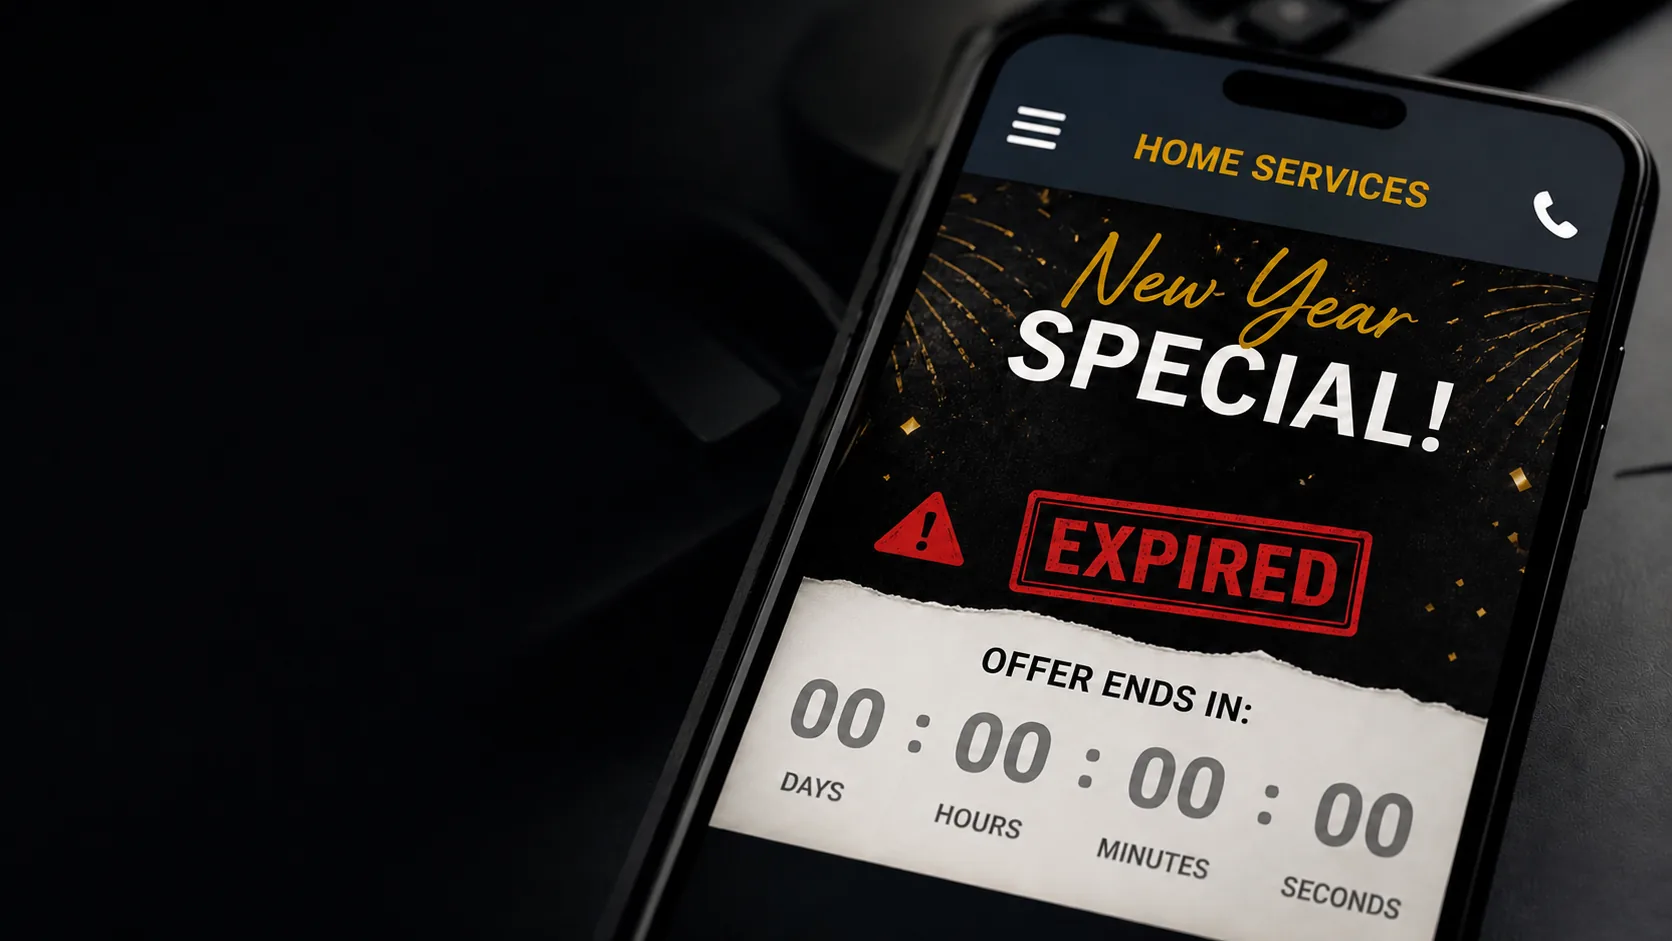
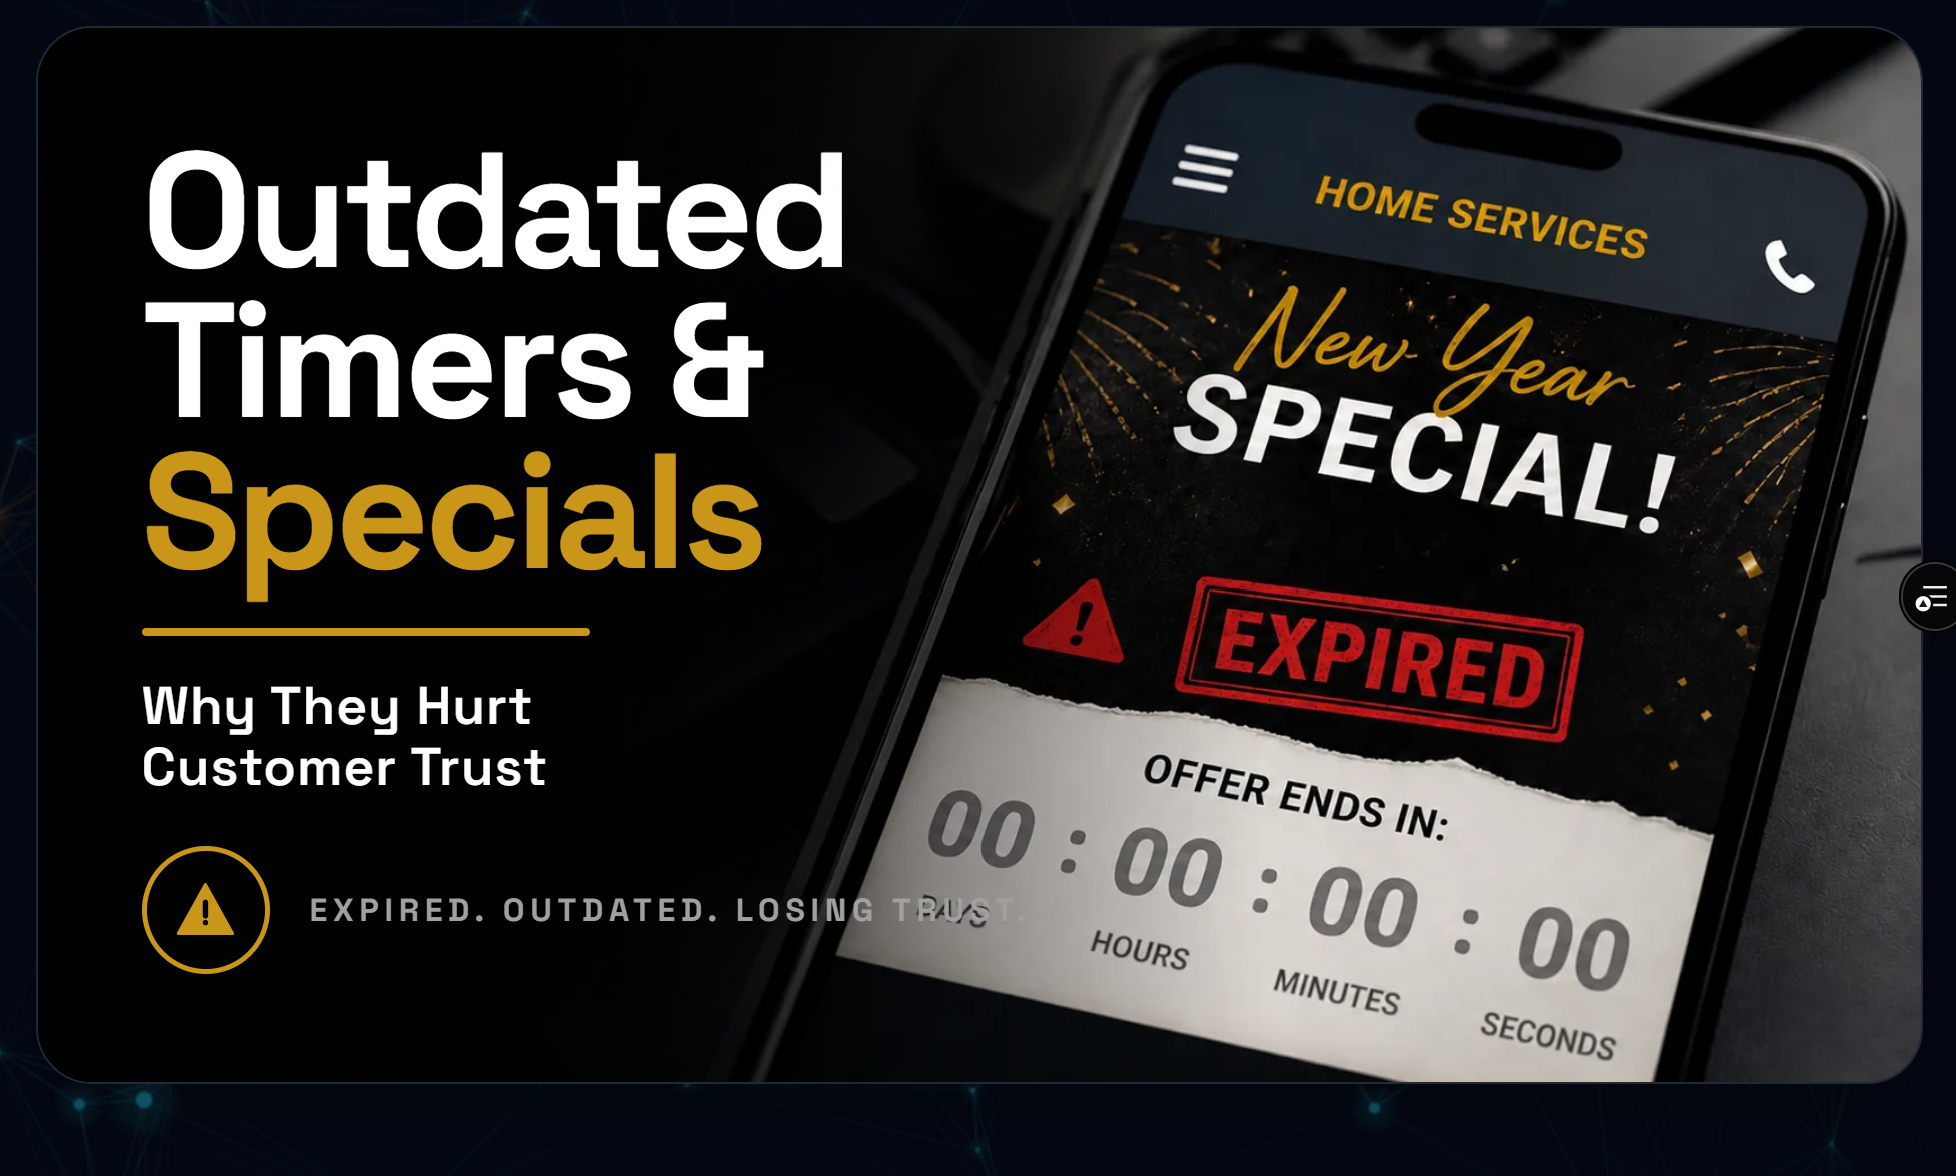
Replace under-compressed thumbnail and fix SIS copy
- Re-convert expired-timers-specials-customer-trust.webp at correct size (71KB → 1.4MB, full quality at 1672x941)
- SIS.jsx: update CTA button label from "See System Work" to "See Our Work"

diff --git a/src/components/pages/SIS.jsx b/src/components/pages/SIS.jsx
@@ -263,7 +263,7 @@ export default function SIS() {
                   href="/work"
                   className="inline-flex items-center gap-2 rounded-lg border border-primary/20 bg-sky-400/[0.06] px-7 py-3 text-sm font-semibold text-foreground transition-all hover:border-primary/40 hover:bg-sky-400/[0.10]"
                 >
-                  See System Work
+                  See Our Work
                 </Link>
               </div>
             </div>
